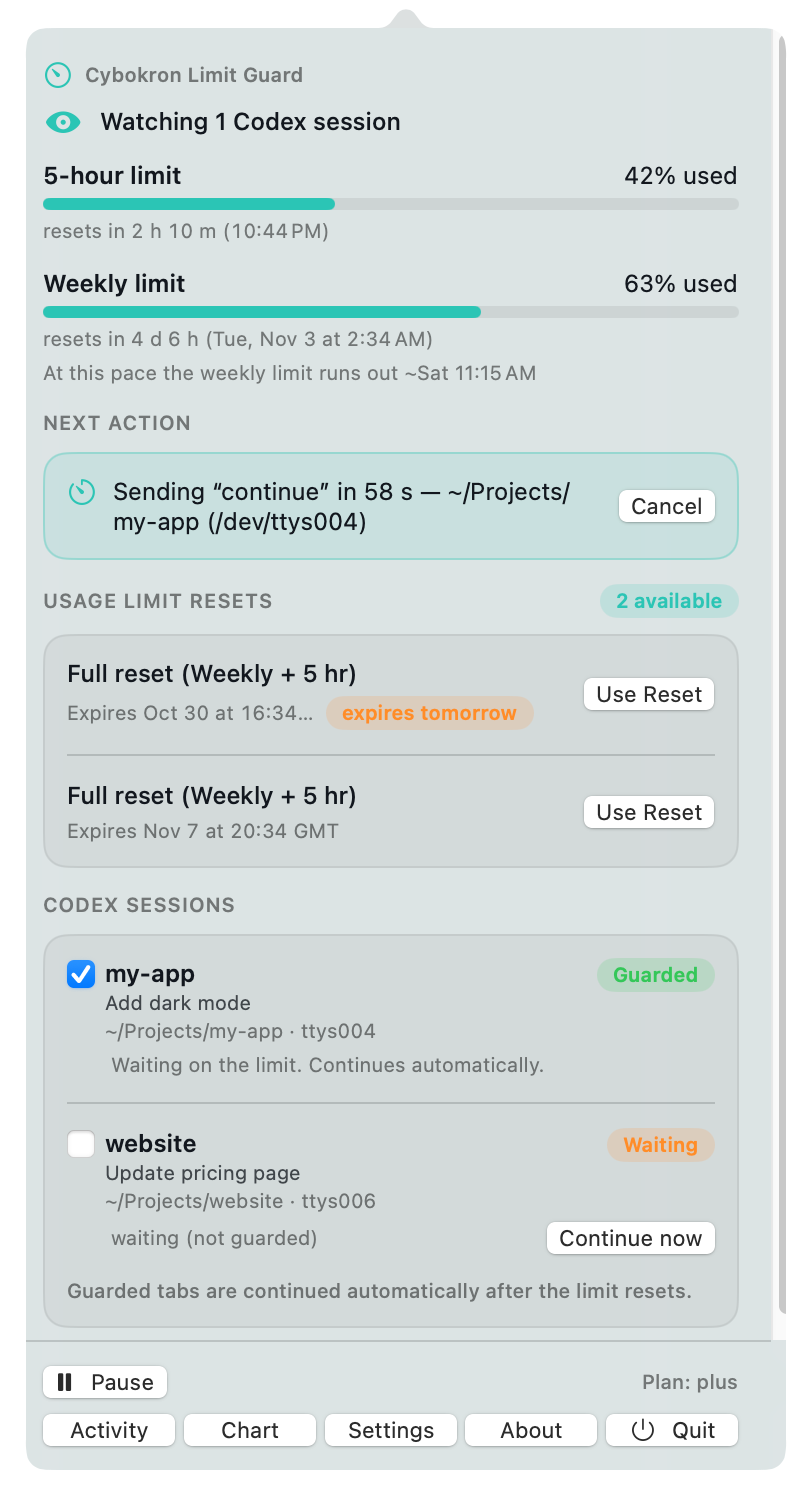
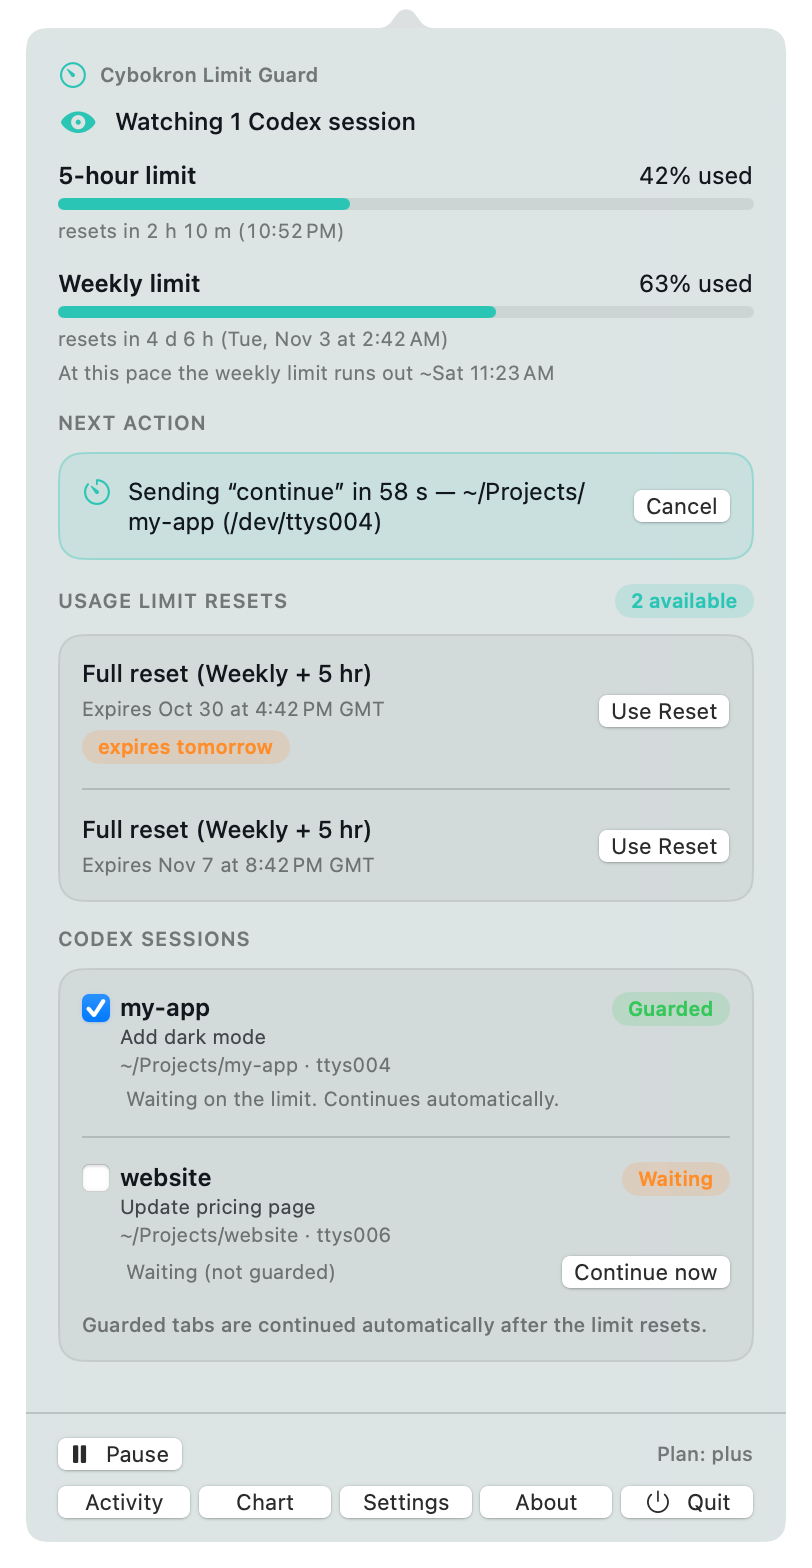
docs: regenerate the screenshots
The popover's screenshot height grows by the pill's line.

diff --git a/Sources/CybokronLimitGuard/System/ScreenshotMode.swift b/Sources/CybokronLimitGuard/System/ScreenshotMode.swift
@@ -30,7 +30,7 @@ enum ScreenshotMode {
     static let isDark = UserDefaults.standard.string(forKey: "LGAppearance") == "dark"
     static let fixture = ScreenshotFixture(now: Date(), home: NSHomeDirectory())
     /// The popover's scrolling part in the screenshots (the app caps it at 520 points).
-    static let popoverContentHeight: CGFloat = 656
+    static let popoverContentHeight: CGFloat = 692
     /// What General shows as the Codex executable, instead of the one found on this Mac.
     static let codexPath = URL(fileURLWithPath: "/opt/homebrew/bin/codex")
 
